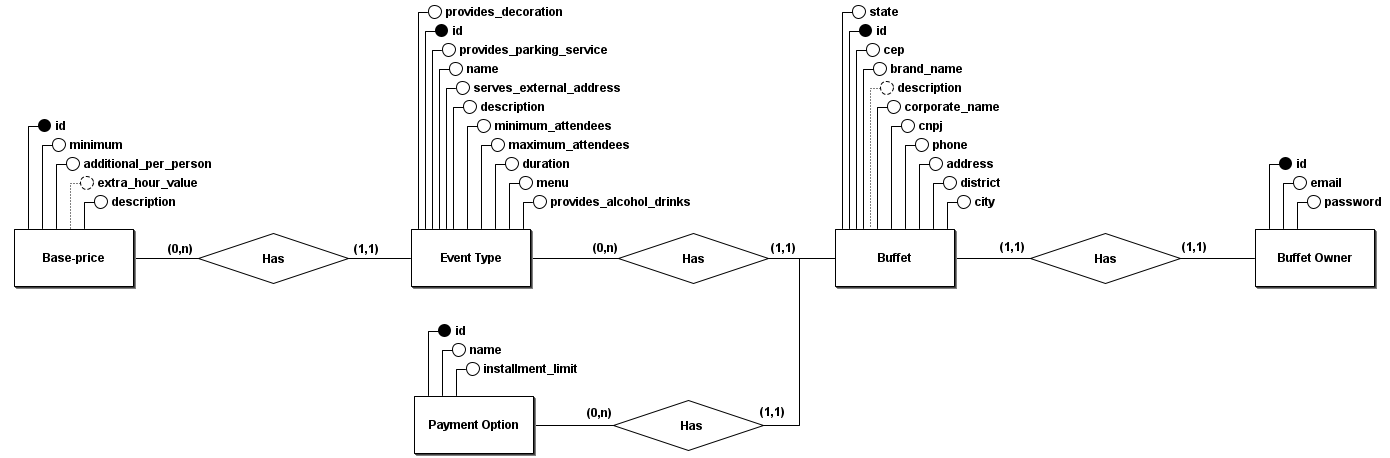
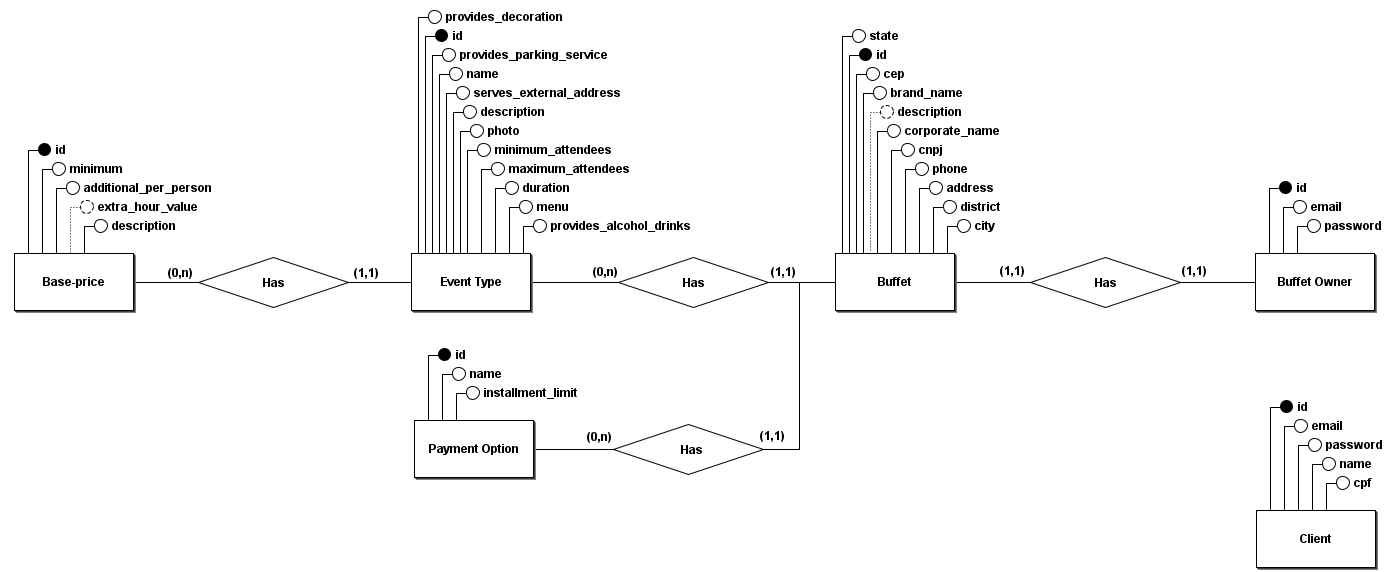
add photo to event types

diff --git a/spec/system/buffets/visitor_sees_buffet_spec.rb b/spec/system/buffets/visitor_sees_buffet_spec.rb
@@ -16,29 +16,35 @@ describe 'Visitor sees buffet details' do
                             description: 'Oferecemos uma experiência gastronômica única.',
                             buffet_owner: user
 
-    EventType.create! name: 'Coquetel de Networking Empresarial',
-                      description: 'Um evento descontraído.',
-                      minimum_attendees: 20,
-                      maximum_attendees: 50,
-                      duration: 120,
-                      menu: 'Seleção de queijos, frutas e vinhos',
-                      provides_alcohol_drinks: true,
-                      provides_decoration: false,
-                      provides_parking_service: false,
-                      serves_external_address: false,
-                      buffet: buffet
+    first_event_type = EventType.new name: 'Coquetel de Networking Empresarial',
+                                      description: 'Um evento descontraído.',
+                                      minimum_attendees: 20,
+                                      maximum_attendees: 50,
+                                      duration: 120,
+                                      menu: 'Seleção de queijos, frutas e vinhos',
+                                      provides_alcohol_drinks: true,
+                                      provides_decoration: false,
+                                      provides_parking_service: false,
+                                      serves_external_address: false,
+                                      buffet: buffet
 
-    EventType.create! name: 'Coquetel de Aniversário',
-                      description: 'Um evento de para comemorar.',
-                      minimum_attendees: 10,
-                      maximum_attendees: 40,
-                      duration: 100,
-                      menu: 'Seleção de queijos, carnes, vinhos e hidromel',
-                      provides_alcohol_drinks: true,
-                      provides_decoration: false,
-                      provides_parking_service: false,
-                      serves_external_address: true,
-                      buffet: buffet
+    first_event_type.photo.attach(io: File.open('spec/support/table.jpg'), filename: 'table.jpg', content_type: 'image/jpeg')
+    first_event_type.save!
+
+    second_event_type = EventType.new name: 'Coquetel de Aniversário',
+                                          description: 'Um evento de para comemorar.',
+                                          minimum_attendees: 10,
+                                          maximum_attendees: 40,
+                                          duration: 100,
+                                          menu: 'Seleção de queijos, carnes, vinhos e hidromel',
+                                          provides_alcohol_drinks: true,
+                                          provides_decoration: false,
+                                          provides_parking_service: false,
+                                          serves_external_address: true,
+                                          buffet: buffet
+
+    second_event_type.photo.attach(io: File.open('spec/support/anniversary.jpg'), filename: 'anniversary.jpg', content_type: 'image/jpeg')
+    second_event_type.save!
 
     PaymentOption.create! name: 'Cartão de Crédito',
                           installment_limit: 12,
@@ -66,8 +72,10 @@ describe 'Visitor sees buffet details' do
     expect(page).to have_content 'À vista'
 
     expect(page).to have_content 'Coquetel de Networking Empresarial'
+    expect(page).to have_css('img[src*="table.jpg"]')
     expect(page).to have_content 'Um evento descontraído.'
     expect(page).to have_content 'Coquetel de Aniversário'
+    expect(page).to have_css('img[src*="anniversary.jpg"]')
     expect(page).to have_content 'Um evento de para comemorar.'
 
     expect(page).not_to have_button 'Remover'

diff --git a/spec/system/event_types/buffet_owner_edit_event_type_spec.rb b/spec/system/event_types/buffet_owner_edit_event_type_spec.rb
@@ -67,17 +67,20 @@ describe 'Buffet owner edits a event type' do
                             cep: '12345678',
                             buffet_owner: user
 
-    EventType.create! name: 'Coquetel de Networking Empresarial',
-                      description: 'Um evento descontraído.',
-                      minimum_attendees: 20,
-                      maximum_attendees: 50,
-                      duration: 120,
-                      menu: 'Seleção de queijos, frutas e vinhos',
-                      provides_alcohol_drinks: true,
-                      provides_decoration: false,
-                      provides_parking_service: false,
-                      serves_external_address: false,
-                      buffet: buffet
+    event_type = EventType.new name: 'Coquetel de Networking Empresarial',
+                               description: 'Um evento descontraído.',
+                               minimum_attendees: 20,
+                               maximum_attendees: 50,
+                               duration: 120,
+                               menu: 'Seleção de queijos, frutas e vinhos',
+                               provides_alcohol_drinks: true,
+                               provides_decoration: false,
+                               provides_parking_service: false,
+                               serves_external_address: false,
+                               buffet: buffet
+
+    event_type.photo.attach(io: File.open('spec/support/table.jpg'), filename: 'table.jpg', content_type: 'image/jpeg')
+    event_type.save!
 
     login_as user, scope: :buffet_owner
     visit edit_event_type_path 1
@@ -89,6 +92,7 @@ describe 'Buffet owner edits a event type' do
       fill_in 'Máximo de Pessoas', with: '100'
       fill_in 'Duração', with: '180'
       fill_in 'Cardápio', with: 'Seleção de queijos, frutas, sucos e refrigerantes'
+      attach_file 'Foto', 'spec/support/anniversary.jpg'
       uncheck 'Fornece Bebidas Alcoólicas'
       uncheck 'Fornece Decoração'
       check 'Fornece Serviço de Estacionamento'
@@ -98,6 +102,8 @@ describe 'Buffet owner edits a event type' do
 
     expect(current_path).to eq event_type_path 1
     expect(page).to have_content 'Coquetel de Networking Social'
+    expect(page).to have_css('img[src*="anniversary.jpg"]')
+    expect(page).not_to have_css('img[src*="table.jpg"]')
     expect(page).to have_content 'Um evento descontraído e casual.'
     expect(page).to have_content 'Mínimo de Pessoas: 30'
     expect(page).to have_content 'Máximo de Pessoas: 100'

diff --git a/db/migrate/20240430040924_create_active_storage_tables.active_storage.rb b/db/migrate/20240430040924_create_active_storage_tables.active_storage.rb
@@ -1,0 +1,57 @@
+# This migration comes from active_storage (originally 20170806125915)
+class CreateActiveStorageTables < ActiveRecord::Migration[7.0]
+  def change
+    # Use Active Record's configured type for primary and foreign keys
+    primary_key_type, foreign_key_type = primary_and_foreign_key_types
+
+    create_table :active_storage_blobs, id: primary_key_type do |t|
+      t.string   :key,          null: false
+      t.string   :filename,     null: false
+      t.string   :content_type
+      t.text     :metadata
+      t.string   :service_name, null: false
+      t.bigint   :byte_size,    null: false
+      t.string   :checksum
+
+      if connection.supports_datetime_with_precision?
+        t.datetime :created_at, precision: 6, null: false
+      else
+        t.datetime :created_at, null: false
+      end
+
+      t.index [ :key ], unique: true
+    end
+
+    create_table :active_storage_attachments, id: primary_key_type do |t|
+      t.string     :name,     null: false
+      t.references :record,   null: false, polymorphic: true, index: false, type: foreign_key_type
+      t.references :blob,     null: false, type: foreign_key_type
+
+      if connection.supports_datetime_with_precision?
+        t.datetime :created_at, precision: 6, null: false
+      else
+        t.datetime :created_at, null: false
+      end
+
+      t.index [ :record_type, :record_id, :name, :blob_id ], name: :index_active_storage_attachments_uniqueness, unique: true
+      t.foreign_key :active_storage_blobs, column: :blob_id
+    end
+
+    create_table :active_storage_variant_records, id: primary_key_type do |t|
+      t.belongs_to :blob, null: false, index: false, type: foreign_key_type
+      t.string :variation_digest, null: false
+
+      t.index [ :blob_id, :variation_digest ], name: :index_active_storage_variant_records_uniqueness, unique: true
+      t.foreign_key :active_storage_blobs, column: :blob_id
+    end
+  end
+
+  private
+    def primary_and_foreign_key_types
+      config = Rails.configuration.generators
+      setting = config.options[config.orm][:primary_key_type]
+      primary_key_type = setting || :primary_key
+      foreign_key_type = setting || :bigint
+      [primary_key_type, foreign_key_type]
+    end
+end

diff --git a/spec/system/event_types/visitor_sees_event_type_spec.rb b/spec/system/event_types/visitor_sees_event_type_spec.rb
@@ -15,17 +15,20 @@ describe 'Visitor sees event type details' do
                             cep: '12345678',
                             buffet_owner: user
 
-    event_type = EventType.create! name: 'Coquetel de Networking Empresarial',
-                                   description: 'Um evento descontraído.',
-                                   minimum_attendees: 20,
-                                   maximum_attendees: 50,
-                                   duration: 120,
-                                   menu: 'Seleção de queijos, frutas e vinhos',
-                                   provides_alcohol_drinks: true,
-                                   provides_decoration: true,
-                                   provides_parking_service: false,
-                                   serves_external_address: false,
-                                   buffet: buffet
+    event_type = EventType.new name: 'Coquetel de Networking Empresarial',
+                               description: 'Um evento descontraído.',
+                               minimum_attendees: 20,
+                               maximum_attendees: 50,
+                               duration: 120,
+                               menu: 'Seleção de queijos, frutas e vinhos',
+                               provides_alcohol_drinks: true,
+                               provides_decoration: true,
+                               provides_parking_service: false,
+                               serves_external_address: false,
+                               buffet: buffet
+
+    event_type.photo.attach(io: File.open('spec/support/table.jpg'), filename: 'table.jpg', content_type: 'image/jpeg')
+    event_type.save!
 
     BasePrice.create! description: 'Meio de Semana',
                       minimum: 10_000,
@@ -44,6 +47,7 @@ describe 'Visitor sees event type details' do
 
     expect(current_path).to eq event_type_path 1
     expect(page).to have_content 'Coquetel de Networking Empresarial'
+    expect(page).to have_css('img[src*="table.jpg"]')
     expect(page).to have_content 'Um evento descontraído'
     expect(page).to have_content 'Mínimo de Pessoas: 20'
     expect(page).to have_content 'Máximo de Pessoas: 50'

diff --git a/spec/system/event_types/buffet_owner_sees_event_type_spec.rb b/spec/system/event_types/buffet_owner_sees_event_type_spec.rb
@@ -15,17 +15,20 @@ describe 'Buffet owner sees event type details' do
                             cep: '12345678',
                             buffet_owner: user
 
-    EventType.create! name: 'Coquetel de Networking Empresarial',
-                      description: 'Um evento descontraído.',
-                      minimum_attendees: 20,
-                      maximum_attendees: 50,
-                      duration: 120,
-                      menu: 'Seleção de queijos, frutas e vinhos',
-                      provides_alcohol_drinks: true,
-                      provides_decoration: true,
-                      provides_parking_service: false,
-                      serves_external_address: false,
-                      buffet: buffet
+    event_type = EventType.new name: 'Coquetel de Networking Empresarial',
+                               description: 'Um evento descontraído.',
+                               minimum_attendees: 20,
+                               maximum_attendees: 50,
+                               duration: 120,
+                               menu: 'Seleção de queijos, frutas e vinhos',
+                               provides_alcohol_drinks: true,
+                               provides_decoration: true,
+                               provides_parking_service: false,
+                               serves_external_address: false,
+                               buffet: buffet
+
+    event_type.photo.attach(io: File.open('spec/support/table.jpg'), filename: 'table.jpg', content_type: 'image/jpeg')
+    event_type.save!
 
     login_as user, scope: :buffet_owner
     visit buffet_path 1
@@ -33,6 +36,7 @@ describe 'Buffet owner sees event type details' do
 
     expect(current_path).to eq event_type_path 1
     expect(page).to have_content 'Coquetel de Networking Empresarial'
+    expect(page).to have_css('img[src*="table.jpg"]')
     expect(page).to have_content 'Um evento descontraído'
     expect(page).to have_content 'Mínimo de Pessoas: 20'
     expect(page).to have_content 'Máximo de Pessoas: 50'

diff --git a/db/schema.rb b/db/schema.rb
@@ -10,7 +10,35 @@
 #
 # It's strongly recommended that you check this file into your version control system.
 
-ActiveRecord::Schema[7.1].define(version: 2024_04_29_083754) do
+ActiveRecord::Schema[7.1].define(version: 2024_04_30_040924) do
+  create_table "active_storage_attachments", force: :cascade do |t|
+    t.string "name", null: false
+    t.string "record_type", null: false
+    t.bigint "record_id", null: false
+    t.bigint "blob_id", null: false
+    t.datetime "created_at", null: false
+    t.index ["blob_id"], name: "index_active_storage_attachments_on_blob_id"
+    t.index ["record_type", "record_id", "name", "blob_id"], name: "index_active_storage_attachments_uniqueness", unique: true
+  end
+
+  create_table "active_storage_blobs", force: :cascade do |t|
+    t.string "key", null: false
+    t.string "filename", null: false
+    t.string "content_type"
+    t.text "metadata"
+    t.string "service_name", null: false
+    t.bigint "byte_size", null: false
+    t.string "checksum"
+    t.datetime "created_at", null: false
+    t.index ["key"], name: "index_active_storage_blobs_on_key", unique: true
+  end
+
+  create_table "active_storage_variant_records", force: :cascade do |t|
+    t.bigint "blob_id", null: false
+    t.string "variation_digest", null: false
+    t.index ["blob_id", "variation_digest"], name: "index_active_storage_variant_records_uniqueness", unique: true
+  end
+
   create_table "base_prices", force: :cascade do |t|
     t.string "description", null: false
     t.float "minimum", null: false
@@ -103,6 +131,8 @@ ActiveRecord::Schema[7.1].define(version: 2024_04_29_083754) do
     t.index ["reset_password_token"], name: "index_users_on_reset_password_token", unique: true
   end
 
+  add_foreign_key "active_storage_attachments", "active_storage_blobs", column: "blob_id"
+  add_foreign_key "active_storage_variant_records", "active_storage_blobs", column: "blob_id"
   add_foreign_key "base_prices", "event_types"
   add_foreign_key "buffets", "buffet_owners"
   add_foreign_key "event_types", "buffets"

diff --git a/spec/system/event_types/buffet_owner_register_event_type_spec.rb b/spec/system/event_types/buffet_owner_register_event_type_spec.rb
@@ -35,6 +35,7 @@ describe 'Buffet owner register event type' do
       expect(page).to have_field 'Fornece Decoração'
       expect(page).to have_field 'Fornece Serviço de Estacionamento'
       expect(page).to have_field 'Atende a Endereço Indicado por Cliente'
+      expect(page).to have_field 'Foto'
       expect(page).to have_button 'Criar Tipo de Evento'
     end
   end
@@ -77,6 +78,7 @@ describe 'Buffet owner register event type' do
       fill_in 'Máximo de Pessoas', with: '50'
       fill_in 'Duração', with: '120'
       fill_in 'Cardápio', with: 'Seleção de queijos, frutas, vinhos e cupcakes'
+      attach_file 'Foto', 'spec/support/table.jpg'
       check 'Fornece Bebidas Alcoólicas'
       check 'Fornece Decoração'
       uncheck 'Fornece Serviço de Estacionamento'
@@ -86,6 +88,7 @@ describe 'Buffet owner register event type' do
 
     expect(current_path).to eq buffet_path 1
     expect(page).to have_content 'Coquetel de Networking Empresarial'
+    expect(page).to have_css('img[src*="table.jpg"]')
     expect(page).to have_content 'Um evento descontraído e profissional.'
     expect(EventType.last.buffet.brand_name).to eq 'Sabor & Arte Buffet'
   end

diff --git a/app/models/event_type.rb b/app/models/event_type.rb
@@ -1,6 +1,7 @@
 class EventType < ApplicationRecord
   belongs_to :buffet
   has_many :base_prices, dependent: :destroy
+  has_one_attached :photo
 
   validates :name,
             :description,
@@ -18,6 +19,10 @@ class EventType < ApplicationRecord
   validates :minimum_attendees, numericality: { only_integer: true, greater_than_or_equal_to: 0 }
   validates :maximum_attendees, numericality: { only_integer: true, greater_than_or_equal_to: 0 }
   validates :duration, numericality: { only_integer: true, greater_than_or_equal_to: 0 }
+
+  def resized_photo
+    self.photo.variant(resize_to_limit: [800, 800])
+  end
 
   def provides_alcohol_drinks_text
     provides_alcohol_drinks? ? 'Sim' : 'Não'

diff --git a/config/environments/production.rb b/config/environments/production.rb
@@ -36,6 +36,9 @@ Rails.application.configure do
   # config.action_dispatch.x_sendfile_header = "X-Sendfile" # for Apache
   # config.action_dispatch.x_sendfile_header = "X-Accel-Redirect" # for NGINX
 
+  # Store uploaded files on the local file system (see config/storage.yml for options).
+  config.active_storage.service = :local
+
   # Assume all access to the app is happening through a SSL-terminating reverse proxy.
   # Can be used together with config.force_ssl for Strict-Transport-Security and secure cookies.
   # config.assume_ssl = true

diff --git a/app/validators/cnpj_validator.rb b/app/validators/cnpj_validator.rb
@@ -1,12 +1,12 @@
 require 'cpf_cnpj'
 
 class CnpjValidator < ActiveModel::EachValidator
-  def validate_each(record, attribute, value)
-    return if CNPJ.valid?(value)
+  def validate_each record, attribute, value
+    return if CNPJ.valid? value
 
-    record.errors.add(attribute,
+    record.errors.add attribute,
                       :invalid_cnpj,
                       message: options[:message] || 'precisa ser válido',
-                      value: value)
+                      value: value
   end
 end

diff --git a/app/validators/cpf_validator.rb b/app/validators/cpf_validator.rb
@@ -1,12 +1,12 @@
 require 'cpf_cnpj'
 
 class CpfValidator < ActiveModel::EachValidator
-  def validate_each(record, attribute, value)
-    return if CPF.valid?(value)
+  def validate_each record, attribute, value
+    return if CPF.valid? value
 
-    record.errors.add(attribute,
+    record.errors.add attribute,
                       :invalid_cpf,
                       message: options[:message] || 'precisa ser válido',
-                      value: value)
+                      value: value
   end
 end

diff --git a/app/controllers/event_types_controller.rb b/app/controllers/event_types_controller.rb
@@ -52,6 +52,7 @@ class EventTypesController < ApplicationController
                                        :maximum_attendees,
                                        :duration,
                                        :menu,
+                                       :photo,
                                        :provides_alcohol_drinks,
                                        :provides_decoration,
                                        :provides_parking_service,
